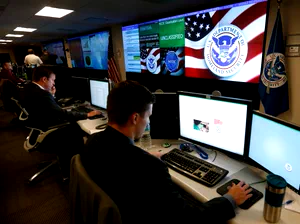
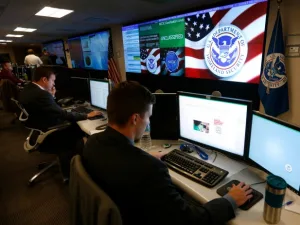
fix(about): re-encode the team photo and center it below 800px
cwebp -q 82 copies the JPEG without the darker, higher-contrast range
shift. Below 800px the photo uses margin-inline: auto so it sits in
the middle of the column at 768.

diff --git a/site/assets/site.css b/site/assets/site.css
@@ -605,6 +605,7 @@ a.external::after { content: " (external)"; }
   .page h1 { max-width: none; font-size: clamp(2.7rem, 12vw, 3.5rem); padding-top: 1.7rem; }
   .row { grid-template-columns: 1fr; gap: 0.25rem; padding: 1.5rem 0; }
   .team-split { grid-template-columns: minmax(0, 1fr); }
+  .team-photo img { margin-inline: auto; }
   .strip, .cards, .slots { grid-template-columns: 1fr; }
   .strip li, .card, .slots li { min-height: 0; }
   .brief { grid-template-columns: 1fr; }

diff --git a/site.py b/site.py
@@ -2486,6 +2486,7 @@ a.external::after { content: " (external)"; }
   .page h1 { max-width: none; font-size: clamp(2.7rem, 12vw, 3.5rem); padding-top: 1.7rem; }
   .row { grid-template-columns: 1fr; gap: 0.25rem; padding: 1.5rem 0; }
   .team-split { grid-template-columns: minmax(0, 1fr); }
+  .team-photo img { margin-inline: auto; }
   .strip, .cards, .slots { grid-template-columns: 1fr; }
   .strip li, .card, .slots li { min-height: 0; }
   .brief { grid-template-columns: 1fr; }
